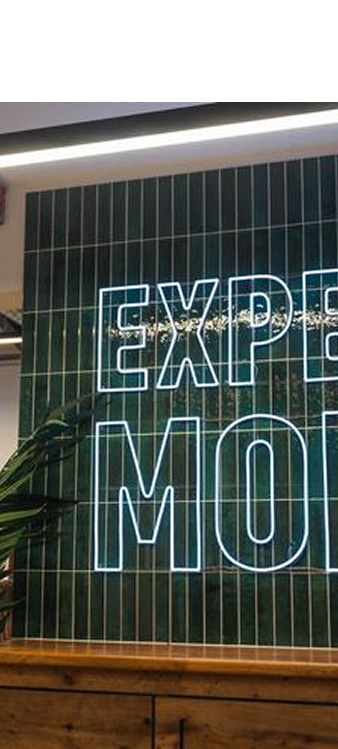
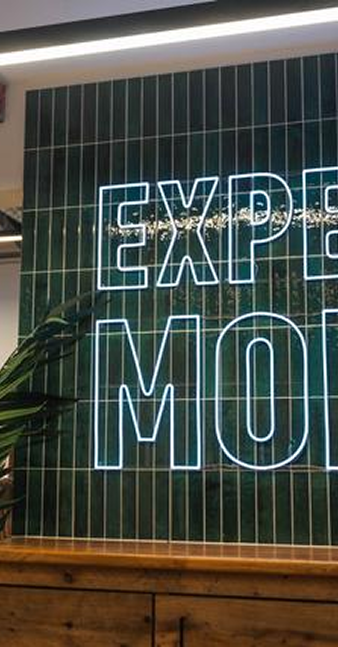
feat(Layout): update layout structure to use flexbox for responsive design and adjust ad panel positioning

diff --git a/app/page.module.scss b/app/page.module.scss
@@ -1,43 +1,39 @@
-.layout {
-  display: grid;
-  grid-template-areas:
-    "header header"
-    "content photo";
-  grid-template-columns: 1fr 500px;
-  grid-template-rows: auto 1fr;
-  column-gap: 48px;
-  min-height: 100vh;
-}
-
-.headerArea {
-  grid-area: header;
+.columns {
+  display: flex;
+  align-items: flex-start;
+  gap: 48px;
 }
 
 .content {
-  grid-area: content;
+  flex: 1;
+  min-width: 0;
 }
 
 .adPanel {
-  grid-area: photo;
-  position: relative;
-  align-self: start;
-  // Container height = 500px column × (647/338) natural ratio of ad.png
-  aspect-ratio: 338 / 647;
-  overflow: hidden;
+  flex-shrink: 0;
 }
 
 .adPhoto {
-  object-fit: cover;
-  object-position: center top;
+  display: block;
+  // width: 100%;
+  height: auto;
 }
 
 @media (max-width: 768px) {
-  .layout {
-    grid-template-areas:
-      "header"
-      "photo"
-      "content";
-    grid-template-columns: 1fr;
-    grid-template-rows: auto 220px 1fr;
+  .columns {
+    flex-direction: column;
+    gap: 0;
+  }
+
+  .adPanel {
+    width: 100%;
+    order: -1;
+  }
+
+  .adPhoto {
+    width: 100%;
+    height: 220px;
+    object-fit: cover;
+    object-position: center center;
   }
 }

diff --git a/app/page.tsx b/app/page.tsx
@@ -5,22 +5,23 @@ import styles from './page.module.scss';
 
 export default function Page() {
   return (
-    <div className={styles.layout}>
-      <div className={styles.headerArea}>
-        <Header />
+    <>
+      <Header />
+      <div className={styles.columns}>
+        <main className={styles.content}>
+          <JobListing />
+        </main>
+        <aside className={styles.adPanel}>
+          <Image
+            src="/ads/ad.png"
+            alt=""
+            width={338}
+            height={647}
+            priority
+            className={styles.adPhoto}
+          />
+        </aside>
       </div>
-      <aside className={styles.adPanel}>
-        <Image
-          src="/ads/ad.png"
-          alt=""
-          fill
-          className={styles.adPhoto}
-          sizes="500px"
-        />
-      </aside>
-      <main className={styles.content}>
-        <JobListing />
-      </main>
-    </div>
+    </>
   );
 }

diff --git a/app/globals.scss b/app/globals.scss
@@ -9,6 +9,12 @@
   box-sizing: border-box;
 }
 
+html,
+body {
+  margin: 0;
+  padding: 0;
+}
+
 body {
   background: var(--background);
   color: var(--foreground);